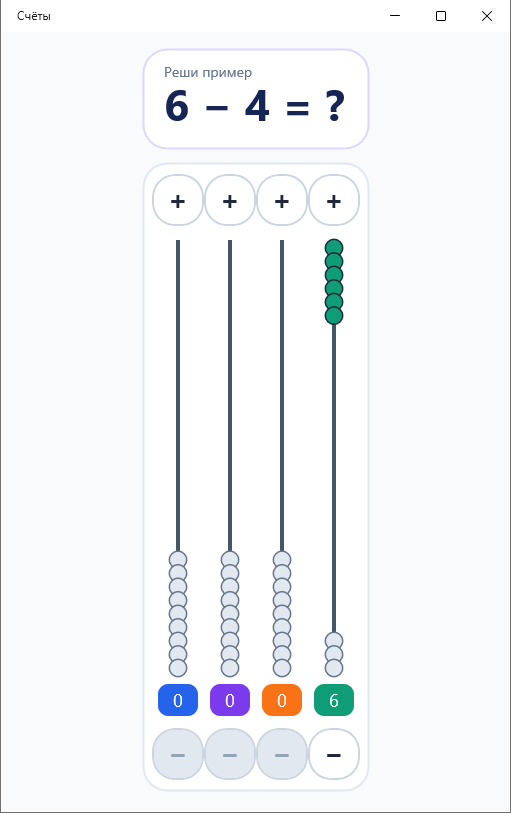
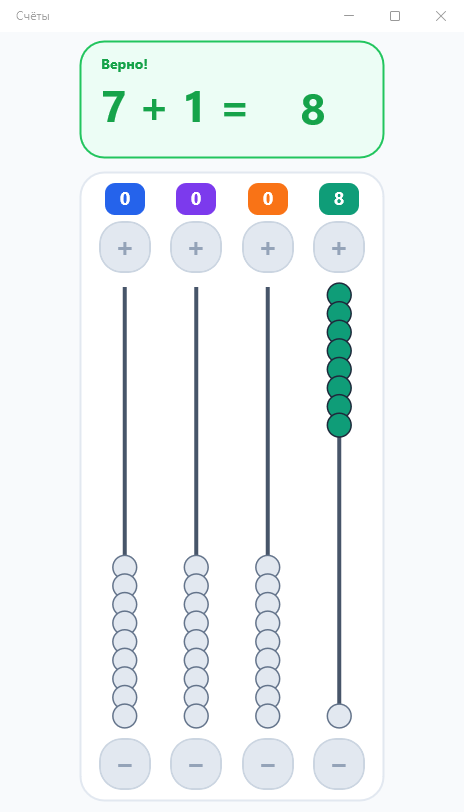
small redesign

diff --git a/src/KidAbacusCalculator/MainPage.xaml b/src/KidAbacusCalculator/MainPage.xaml
@@ -54,7 +54,7 @@
     </ContentPage.Resources>
 
     <Grid
-        Padding="18,16,18,20"
+        Padding="9,8,9,10"
         ColumnDefinitions="*"
         HorizontalOptions="Center"
         MaximumWidthRequest="540"

diff --git a/src/KidAbacusCalculator/Controls/NumericInput.cs b/src/KidAbacusCalculator/Controls/NumericInput.cs
@@ -12,6 +12,26 @@ public sealed class NumericInput : Entry
         TextChanged += OnTextChanged;
     }
 
+    protected override void OnHandlerChanged()
+    {
+        base.OnHandlerChanged();
+
+        // Нативные Entry добавляют нижнюю линию или рамку даже при прозрачном
+        // фоне; убираем это оформление, сохраняя ввод и фокусировку.
+#if ANDROID
+        if (Handler?.PlatformView is Android.Widget.EditText platformInput)
+        {
+            platformInput.BackgroundTintList =
+                Android.Content.Res.ColorStateList.ValueOf(Android.Graphics.Color.Transparent);
+        }
+#elif WINDOWS
+        if (Handler?.PlatformView is Microsoft.UI.Xaml.Controls.TextBox platformInput)
+        {
+            platformInput.BorderThickness = new Microsoft.UI.Xaml.Thickness(0);
+        }
+#endif
+    }
+
     private void OnTextChanged(object? sender, TextChangedEventArgs eventArgs)
     {
         if (_isNormalizingText)
